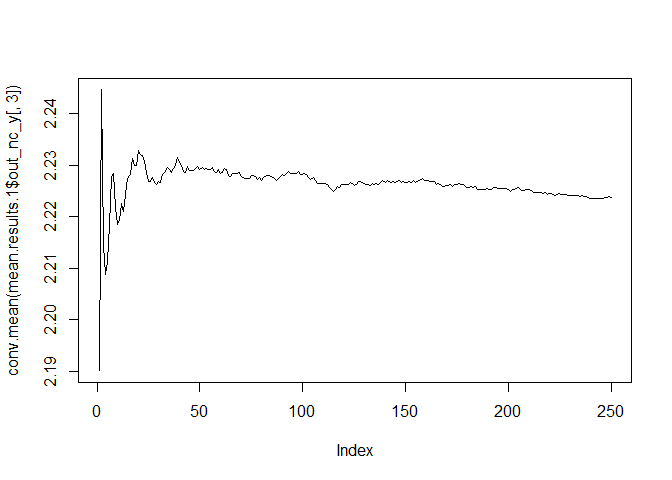
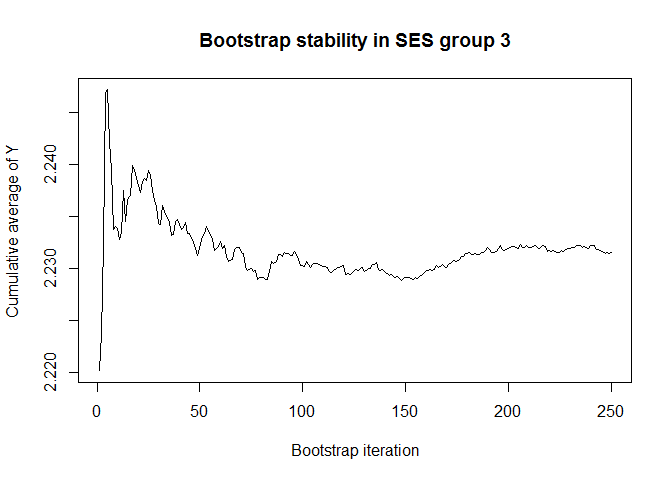
Update figures

diff --git a/README.md b/README.md
@@ -50,7 +50,7 @@ mean.results.1 <- cfd.mean(formula.y='out.gauss ~ SES + med.gauss + med.binom + 
 # see if our modelling procedure approximates the mean of the mediator well
 # for SES group 1
 hist(mean.results.1$out_nc_m[,1],col='grey',xlab='MC iteration means of M of SES group 1',
-     main='SES group 1: comparison of MC approximation to empirical mean of mediator M')
+     main='Comparison of MC approximation to empirical mean of mediator M')
 # place empirical mean of M in the histogram:
 abline(v=mean(cfd.example.data$med.gauss[cfd.example.data$SES==1]),lwd=4)
 ```
@@ -60,7 +60,7 @@ abline(v=mean(cfd.example.data$med.gauss[cfd.example.data$SES==1]),lwd=4)
 ``` r
 # approximation of the mean of M over the Monte Carlo iterations for SES group 1:
 mean(mean.results.1$out_nc_m[,1])
-#> [1] 8.164061
+#> [1] 8.16136
 # empirical mean of mediator M for SES group 1:
 mean(cfd.example.data$med.gauss[cfd.example.data$SES==1])
 #> [1] 8.163461
@@ -68,7 +68,7 @@ mean(cfd.example.data$med.gauss[cfd.example.data$SES==1])
 
 # for SES group 2
 hist(mean.results.1$out_nc_m[,2],col='grey',xlab='MC iteration means of M of SES group 2',
-     main='SES group 2: Comparison of MC approximation to empirical mean of mediator M')
+     main='Comparison of MC approximation to empirical mean of mediator M')
 # place empirical mean of M in the histogram:
 abline(v=mean(cfd.example.data$med.gauss[cfd.example.data$SES==2]),lwd=4)
 ```
@@ -77,13 +77,13 @@ abline(v=mean(cfd.example.data$med.gauss[cfd.example.data$SES==2]),lwd=4)
 
 ``` r
 mean(mean.results.1$out_nc_m[,2]);mean(cfd.example.data$med.gauss[cfd.example.data$SES==2])
-#> [1] 7.184028
+#> [1] 7.186371
 #> [1] 7.186521
 # conclusion: also for group 2, approximation is good
 
 # for SES group 3
 hist(mean.results.1$out_nc_m[,3],col='grey',xlab='MC iteration means of M of SES group 3',
-     main='SES group 3: Comparison of MC approximation to empirical mean of mediator M')
+     main='Comparison of MC approximation to empirical mean of mediator M')
 # place empirical mean of M in the histogram:
 abline(v=mean(cfd.example.data$med.gauss[cfd.example.data$SES==3]),lwd=4)
 ```
@@ -92,14 +92,14 @@ abline(v=mean(cfd.example.data$med.gauss[cfd.example.data$SES==3]),lwd=4)
 
 ``` r
 mean(mean.results.1$out_nc_m[,3]);mean(cfd.example.data$med.gauss[cfd.example.data$SES==3])
-#> [1] 5.375213
+#> [1] 5.379294
 #> [1] 5.376548
 # conclusion: also for group 3, approximation of M is good
 
 # see if our modelling procedure approximates the mean of outcome Y well
 # for SES group 1
 hist(mean.results.1$out_nc_y[,1],col='grey',xlab='MC iteration means of Y of SES group 1',
-     main='SES group 1: comparison of MC approximation to empirical mean of outcome Y')
+     main='Comparison of MC approximation to empirical mean of outcome Y')
 # place empirical mean of outcome Y in the histogram:
 abline(v=mean(cfd.example.data$out.gauss[cfd.example.data$SES==1]),lwd=4)
 ```
@@ -108,13 +108,13 @@ abline(v=mean(cfd.example.data$out.gauss[cfd.example.data$SES==1]),lwd=4)
 
 ``` r
 mean(mean.results.1$out_nc_y[,1]);mean(cfd.example.data$out.gauss[cfd.example.data$SES==1])
-#> [1] 4.147819
+#> [1] 4.142032
 #> [1] 4.145881
 # conclusion: on average, our distributions of means of Y centers on the empirical distribution of Y 
 
 # for SES group 2
 hist(mean.results.1$out_nc_y[,2],col='grey',xlab='MC iteration means of Y of SES group 2',
-     main='SES group 2: comparison of MC approximation to empirical mean of outcome Y')
+     main='Comparison of MC approximation to empirical mean of outcome Y')
 # place empirical mean of outcome Y in the histogram:
 abline(v=mean(cfd.example.data$out.gauss[cfd.example.data$SES==2]),lwd=4)
 ```
@@ -123,13 +123,13 @@ abline(v=mean(cfd.example.data$out.gauss[cfd.example.data$SES==2]),lwd=4)
 
 ``` r
 mean(mean.results.1$out_nc_y[,2]);mean(cfd.example.data$out.gauss[cfd.example.data$SES==2])
-#> [1] 3.282378
+#> [1] 3.286105
 #> [1] 3.284409
 # conclusion: also for group 2, approximation of Y is good
 
 # for SES group 3
 hist(mean.results.1$out_nc_y[,3],col='grey',xlab='MC iteration means of Y of SES group 3',
-     main='SES group 3: comparison of MC approximation to empirical mean of outcome Y')
+     main='Comparison of MC approximation to empirical mean of outcome Y')
 # place empirical mean of outcome Y in the histogram:
 abline(v=mean(cfd.example.data$out.gauss[cfd.example.data$SES==3]),lwd=4)
 ```
@@ -138,7 +138,7 @@ abline(v=mean(cfd.example.data$out.gauss[cfd.example.data$SES==3]),lwd=4)
 
 ``` r
 mean(mean.results.1$out_nc_y[,3]);mean(cfd.example.data$out.gauss[cfd.example.data$SES==3])
-#> [1] 2.223823
+#> [1] 2.231592
 #> [1] 2.227222
 # conclusion: also for group 3, approximation of Y is good
 
@@ -147,26 +147,26 @@ mean(mean.results.1$out_nc_y[,3]);mean(cfd.example.data$out.gauss[cfd.example.da
 # estimate the effect of the intervention and proportion mediated (decomposition)
 # the differences between SES groups 1 and 2 were first:
 mean(mean.results.1$out_nc_y[,2] - mean.results.1$out_nc_y[,1])
-#> [1] -0.8654418
+#> [1] -0.855927
 # and after giving the gaussian mediator of SES group 2 the distribution of the one in group 1
 # the difference becomes:
 mean(mean.results.1$out_cf_y[,2] - mean.results.1$out_nc_y[,1])
-#> [1] -0.6583822
+#> [1] -0.6490111
 # so the proportion of the outcome Y that is due to differences between the two SES groups in the gaussian mediator is
 mean(1-(mean.results.1$out_cf_y[,2] - mean.results.1$out_nc_y[,1]) / (mean.results.1$out_nc_y[,2] - mean.results.1$out_nc_y[,1]))
-#> [1] 0.2396509
+#> [1] 0.2422224
 # we can also get this number, and the one from the comparison of the other SES group with group 1, straight from the object
 mean.results.1$mediation
 #>         2         3 
-#> 0.2396509 0.3048598
+#> 0.2422224 0.3066035
 # you'll notice the first number is the same as the one we calculated ourselves from the output
 # this is the proportion mediated when coming the first and the second SES group
 # the second number is the proportion mediated when comparing the first and the third SES group
 # and we can get the 1-alpha confidence intervals for each:
 mean.results.1$mediation_quantile
 #>               2         3
-#> 2.5%  0.2016771 0.2791344
-#> 97.5% 0.2786567 0.3308888
+#> 2.5%  0.2054395 0.2787713
+#> 97.5% 0.2824412 0.3324227
 
 # if a mediator is binomial distributed
 mean.results.2 <- cfd.mean(formula.y='out.gauss ~ med.pois + age + med.binom',
@@ -196,19 +196,22 @@ mean.results.3 <- cfd.mean(formula.y='out.gauss ~ med.pois + age + med.binom',
 # are these number enough for stability? (also consider the scale of the Y-axis)
 
 # bootstrap, mediator, by SES group
-plot(conv.mean(mean.results.1$out_nc_m[,1]),type='l')
+plot(conv.mean(mean.results.1$out_nc_m[,1]),type='l',ylab='Cumulative average of M',
+     main='Bootstrap stability in SES group 1',xlab='Bootstrap iteration')
 ```
 
 <img src="figures/README-example-7.png" width="100%" />
 
 ``` r
-plot(conv.mean(mean.results.1$out_nc_m[,2]),type='l')
+plot(conv.mean(mean.results.1$out_nc_m[,2]),type='l',ylab='Cumulative average of M',
+     main='Bootstrap stability in SES group 2',xlab='Bootstrap iteration')
 ```
 
 <img src="figures/README-example-8.png" width="100%" />
 
 ``` r
-plot(conv.mean(mean.results.1$out_nc_m[,3]),type='l')
+plot(conv.mean(mean.results.1$out_nc_m[,3]),type='l',ylab='Cumulative average of M',
+     main='Bootstrap stability in SES group 3',xlab='Bootstrap iteration')
 ```
 
 <img src="figures/README-example-9.png" width="100%" />
@@ -216,25 +219,27 @@ plot(conv.mean(mean.results.1$out_nc_m[,3]),type='l')
 ``` r
 
 # bootstrap, outcome, by SES group
-plot(conv.mean(mean.results.1$out_nc_y[,1]),type='l')
+plot(conv.mean(mean.results.1$out_nc_y[,1]),type='l',ylab='Cumulative average of Y',
+     main='Bootstrap stability in SES group 1',xlab='Bootstrap iteration')
 ```
 
 <img src="figures/README-example-10.png" width="100%" />
 
 ``` r
-plot(conv.mean(mean.results.1$out_nc_y[,2]),type='l')
+plot(conv.mean(mean.results.1$out_nc_y[,2]),type='l',ylab='Cumulative average of Y',
+     main='Bootstrap stability in SES group 2',xlab='Bootstrap iteration')
 ```
 
 <img src="figures/README-example-11.png" width="100%" />
 
 ``` r
-plot(conv.mean(mean.results.1$out_nc_y[,3]),type='l')
+plot(conv.mean(mean.results.1$out_nc_y[,3]),type='l',ylab='Cumulative average of Y',
+     main='Bootstrap stability in SES group 3',xlab='Bootstrap iteration')
 ```
 
 <img src="figures/README-example-12.png" width="100%" />
 
 ``` r
-
 # a bootstrap size of 250 is more than enough for stability of the estimate
 # of course, we want a large size to also get precise quantiles (confidence intervals)
 
@@ -251,19 +256,22 @@ x <- cfd.mean(formula.y='out.gauss ~ med.pois + age + med.binom',
               alpha=0.05)
 
 # Monte Carlo, mediator, by SES group
-plot(x$mc_conv_info_m[,1],type='l')
+plot(x$mc_conv_info_m[,1],type='l',ylab='Cumulative average of M',
+     main='Monte Carlo stability in SES group 1',xlab='Monte Carlo iteration')
 ```
 
 <img src="figures/README-example-13.png" width="100%" />
 
 ``` r
-plot(x$mc_conv_info_m[,2],type='l')
+plot(x$mc_conv_info_m[,2],type='l',ylab='Cumulative average of M',
+     main='Monte Carlo stability in SES group 2',xlab='Monte Carlo iteration')
 ```
 
 <img src="figures/README-example-14.png" width="100%" />
 
 ``` r
-plot(x$mc_conv_info_m[,3],type='l')
+plot(x$mc_conv_info_m[,3],type='l',ylab='Cumulative average of M',
+     main='Monte Carlo stability in SES group 3',xlab='Monte Carlo iteration')
 ```
 
 <img src="figures/README-example-15.png" width="100%" />
@@ -271,19 +279,22 @@ plot(x$mc_conv_info_m[,3],type='l')
 ``` r
 
 # Bootstrap, mediator, by SES group
-plot(x$mc_conv_info_y[,1],type='l')
+plot(x$mc_conv_info_y[,1],type='l',ylab='Cumulative average of Y',
+     main='Monte Carlo stability in SES group 1',xlab='Monte Carlo iteration')
 ```
 
 <img src="figures/README-example-16.png" width="100%" />
 
 ``` r
-plot(x$mc_conv_info_y[,2],type='l')
+plot(x$mc_conv_info_y[,2],type='l',ylab='Cumulative average of Y',
+     main='Monte Carlo stability in SES group 2',xlab='Monte Carlo iteration')
 ```
 
 <img src="figures/README-example-17.png" width="100%" />
 
 ``` r
-plot(x$mc_conv_info_y[,3],type='l')
+plot(x$mc_conv_info_y[,3],type='l',ylab='Cumulative average of Y',
+     main='Monte Carlo stability in SES group 3',xlab='Monte Carlo iteration')
 ```
 
 <img src="figures/README-example-18.png" width="100%" />
